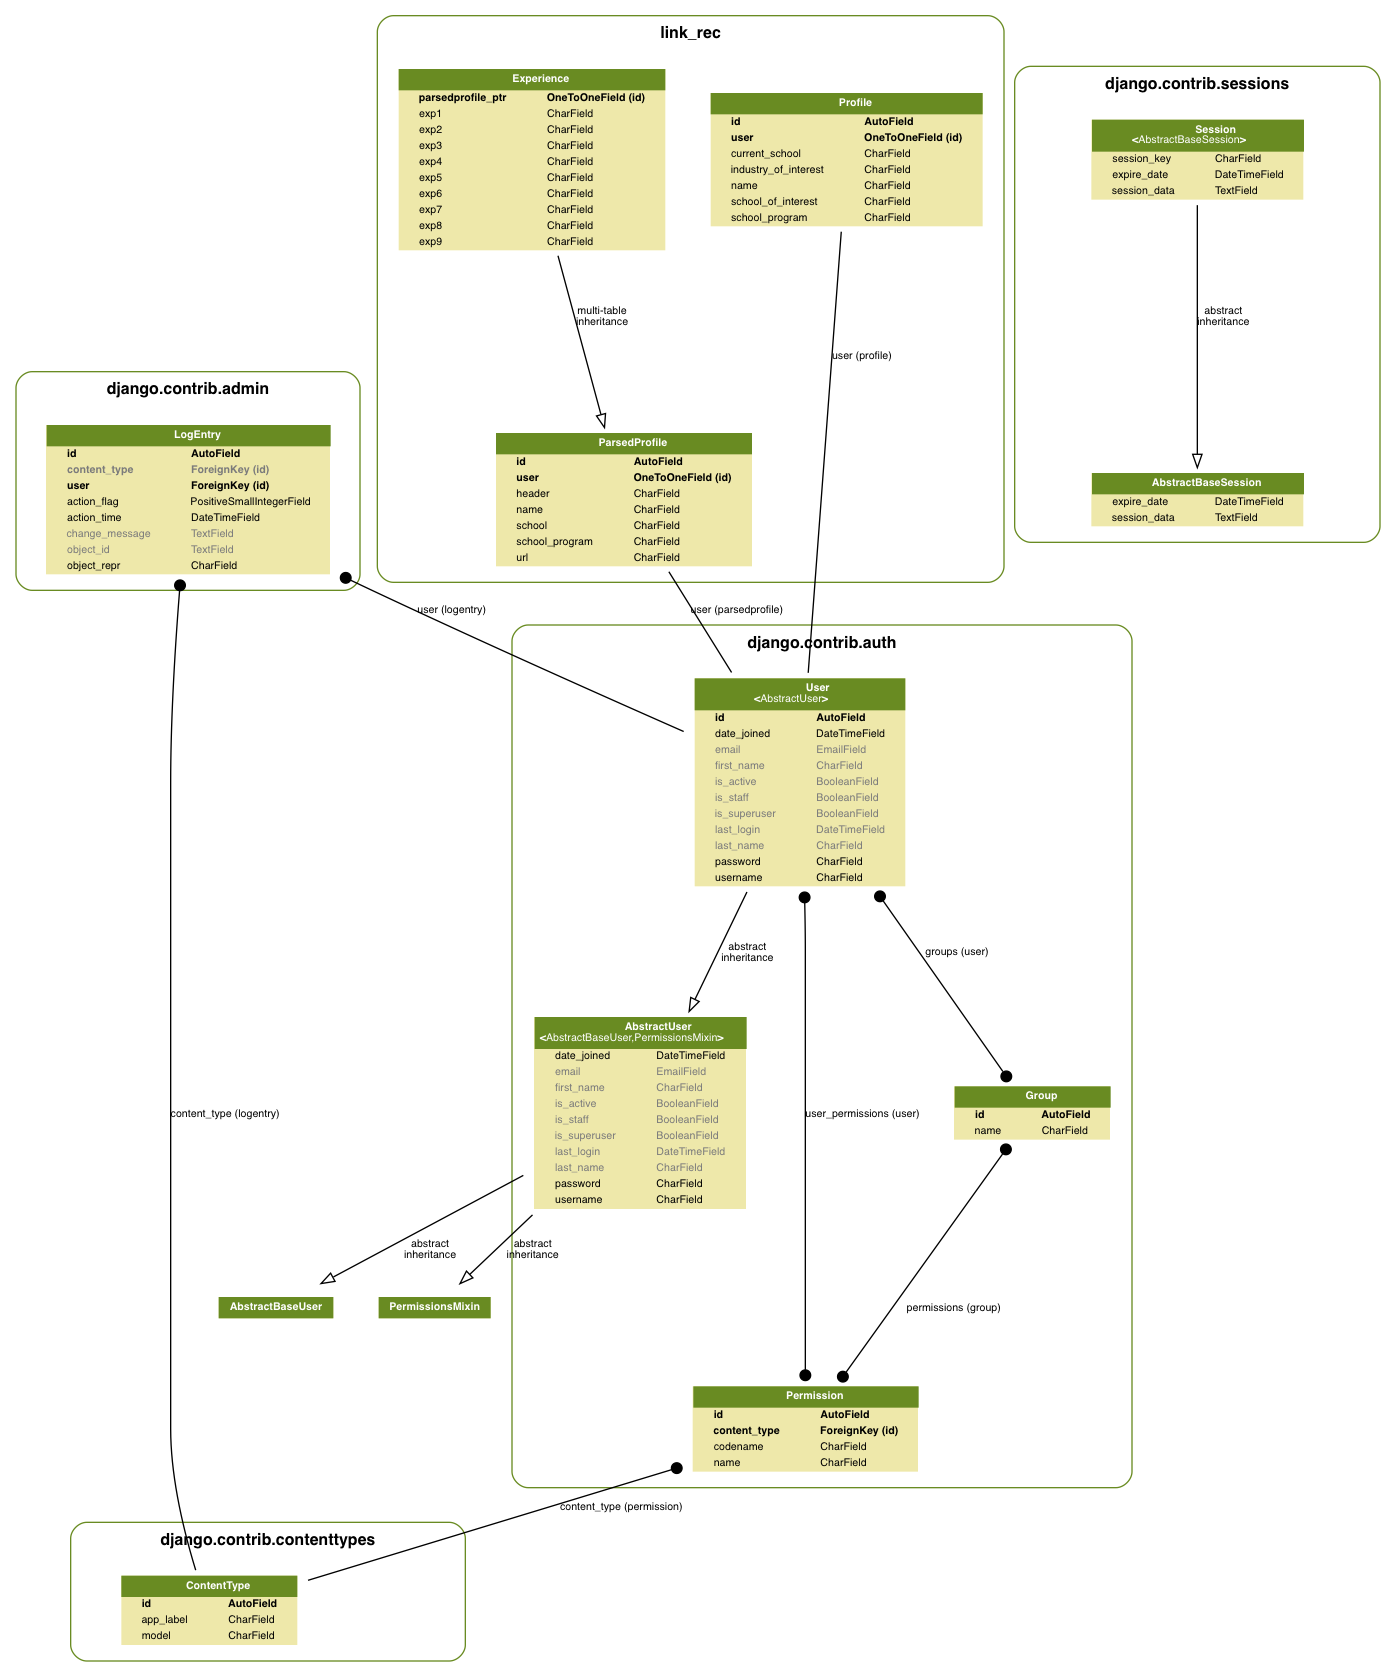
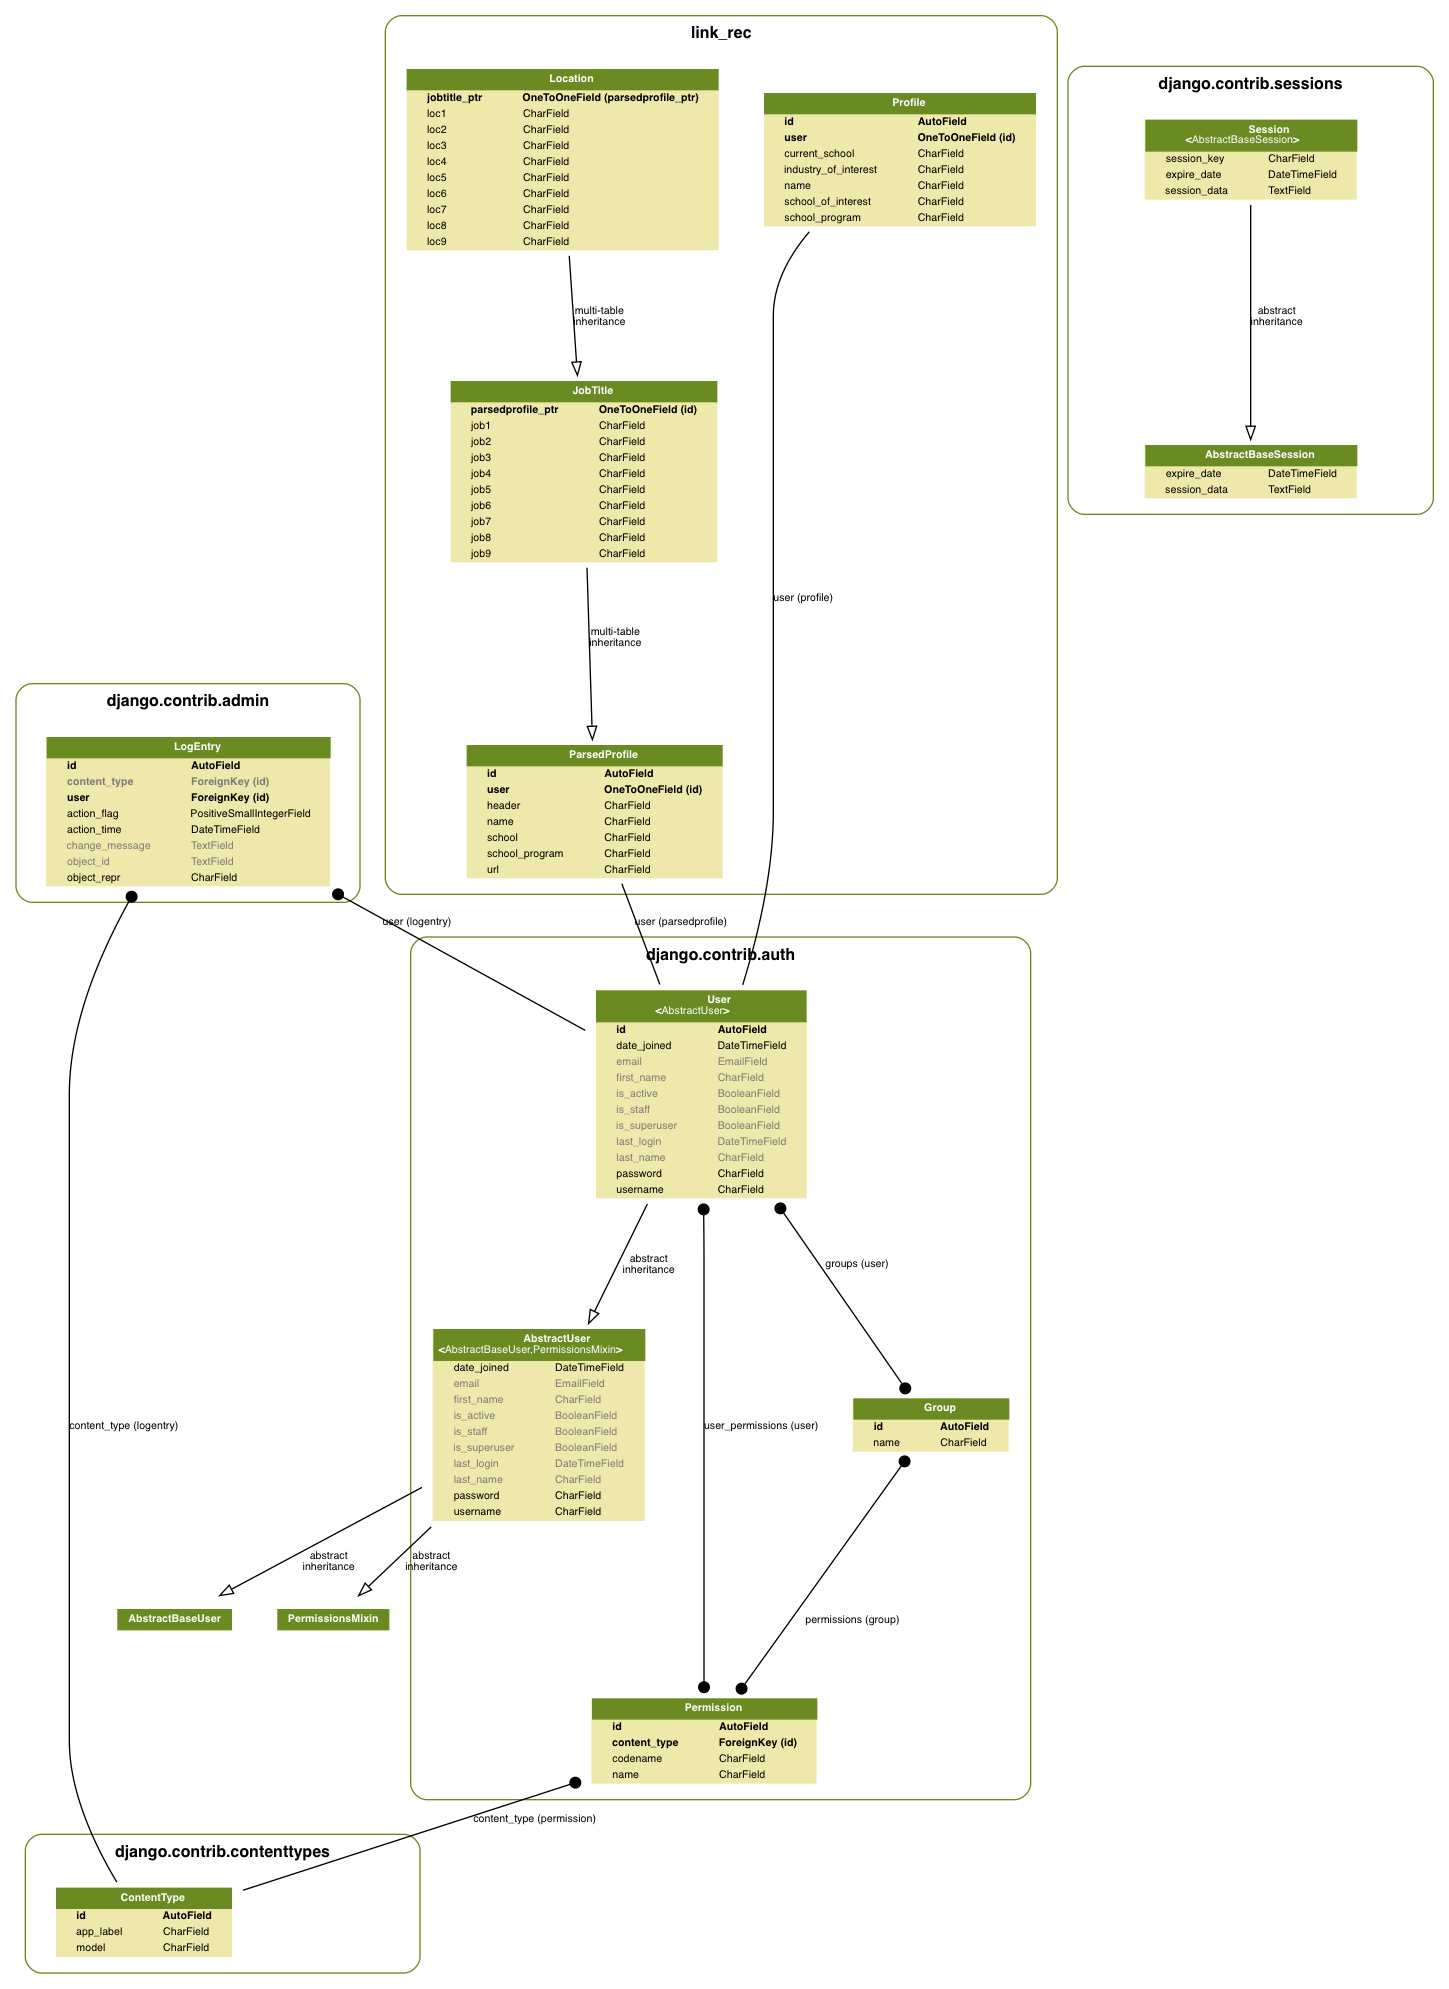
created better user model

diff --git a/link_rec/migrations/0006_auto_20170707_1915.py b/link_rec/migrations/0006_auto_20170707_1915.py
@@ -1,0 +1,66 @@
+# -*- coding: utf-8 -*-
+# Generated by Django 1.10.3 on 2017-07-07 19:15
+from __future__ import unicode_literals
+
+from django.conf import settings
+from django.db import migrations, models
+import django.db.models.deletion
+
+
+class Migration(migrations.Migration):
+
+    dependencies = [
+        migrations.swappable_dependency(settings.AUTH_USER_MODEL),
+        ('link_rec', '0005_auto_20170705_0412'),
+    ]
+
+    operations = [
+        migrations.CreateModel(
+            name='ParsedProfile',
+            fields=[
+                ('id', models.AutoField(auto_created=True, primary_key=True, serialize=False, verbose_name='ID')),
+                ('name', models.CharField(max_length=250)),
+                ('url', models.CharField(max_length=500)),
+                ('header', models.CharField(max_length=500)),
+                ('school', models.CharField(max_length=500)),
+                ('school_program', models.CharField(max_length=500)),
+            ],
+        ),
+        migrations.CreateModel(
+            name='JobTitle',
+            fields=[
+                ('parsedprofile_ptr', models.OneToOneField(auto_created=True, on_delete=django.db.models.deletion.CASCADE, parent_link=True, primary_key=True, serialize=False, to='link_rec.ParsedProfile')),
+                ('job1', models.CharField(max_length=500)),
+                ('job2', models.CharField(max_length=500)),
+                ('job3', models.CharField(max_length=500)),
+                ('job4', models.CharField(max_length=500)),
+                ('job5', models.CharField(max_length=500)),
+                ('job6', models.CharField(max_length=500)),
+                ('job7', models.CharField(max_length=500)),
+                ('job8', models.CharField(max_length=500)),
+                ('job9', models.CharField(max_length=500)),
+            ],
+            bases=('link_rec.parsedprofile',),
+        ),
+        migrations.AddField(
+            model_name='parsedprofile',
+            name='user',
+            field=models.OneToOneField(on_delete=django.db.models.deletion.CASCADE, to=settings.AUTH_USER_MODEL),
+        ),
+        migrations.CreateModel(
+            name='Location',
+            fields=[
+                ('jobtitle_ptr', models.OneToOneField(auto_created=True, on_delete=django.db.models.deletion.CASCADE, parent_link=True, primary_key=True, serialize=False, to='link_rec.JobTitle')),
+                ('loc1', models.CharField(max_length=500)),
+                ('loc2', models.CharField(max_length=500)),
+                ('loc3', models.CharField(max_length=500)),
+                ('loc4', models.CharField(max_length=500)),
+                ('loc5', models.CharField(max_length=500)),
+                ('loc6', models.CharField(max_length=500)),
+                ('loc7', models.CharField(max_length=500)),
+                ('loc8', models.CharField(max_length=500)),
+                ('loc9', models.CharField(max_length=500)),
+            ],
+            bases=('link_rec.jobtitle',),
+        ),
+    ]

diff --git a/link_rec/models.py b/link_rec/models.py
@@ -58,17 +58,29 @@ class ParsedProfile(models.Model):
     school_program = models.CharField(max_length=500)
 
 
-class Experience(ParsedProfile):
+class JobTitle(ParsedProfile):
+    job1 = models.CharField(max_length=500)
+    job2 = models.CharField(max_length=500)
+    job3 = models.CharField(max_length=500)
+    job4 = models.CharField(max_length=500)
+    job5 = models.CharField(max_length=500)
+    job6 = models.CharField(max_length=500)
+    job7 = models.CharField(max_length=500)
+    job8 = models.CharField(max_length=500)
+    job9 = models.CharField(max_length=500)
+
+
+class Location(JobTitle):
     #profile = models.OneToOneField(Profile, on_delete=models.CASCADE)
-    exp1 = models.CharField(max_length=500)
-    exp2 = models.CharField(max_length=500)
-    exp3 = models.CharField(max_length=500)
-    exp4 = models.CharField(max_length=500)
-    exp5 = models.CharField(max_length=500)
-    exp6 = models.CharField(max_length=500)
-    exp7 = models.CharField(max_length=500)
-    exp8 = models.CharField(max_length=500)
-    exp9 = models.CharField(max_length=500)
+    loc1 = models.CharField(max_length=500)
+    loc2 = models.CharField(max_length=500)
+    loc3 = models.CharField(max_length=500)
+    loc4 = models.CharField(max_length=500)
+    loc5 = models.CharField(max_length=500)
+    loc6 = models.CharField(max_length=500)
+    loc7 = models.CharField(max_length=500)
+    loc8 = models.CharField(max_length=500)
+    loc9 = models.CharField(max_length=500)
     #exp10 = models.CharField(max_length=500)
 
 

diff --git a/link_rec/link_new/dump_profile.py b/link_rec/link_new/dump_profile.py
@@ -15,9 +15,9 @@ def open_file(filename):
 
 linkedin = linkedin_parser.Linkedin()
 linkedin.linkedin_login()
+lines = open_file('linkedin_dest_url')
+print(linkedin.get_person_information('https://www.linkedin.com/in/rahul-duggal-402506134/'))
 
-#for i in open_file('linkedin_dest_url'):
-    #print(i)
 
 def dump_profiles(num_iter):
     while num_iter >= 1:
@@ -38,9 +38,13 @@ def dump_profiles(num_iter):
 
 
 def parse_profiles_to_db(filename):
-    start_time = time.time()
     conn = sqlite3.connect('/Users/Rahul/Desktop/Main/Side_projects/linkedin_recommend/db.sqlite3')
     c = conn.cursor()
-    c.execute("CREATE ")
+    #c.execute('SELECT * FROM link_rec_profile')
+    c.execute('SELECT * FROM link_rec_parsedprofile')
+    y = c.fetchall()
+
+parse_profiles_to_db('linkedin_dest_url')
+
 
 
